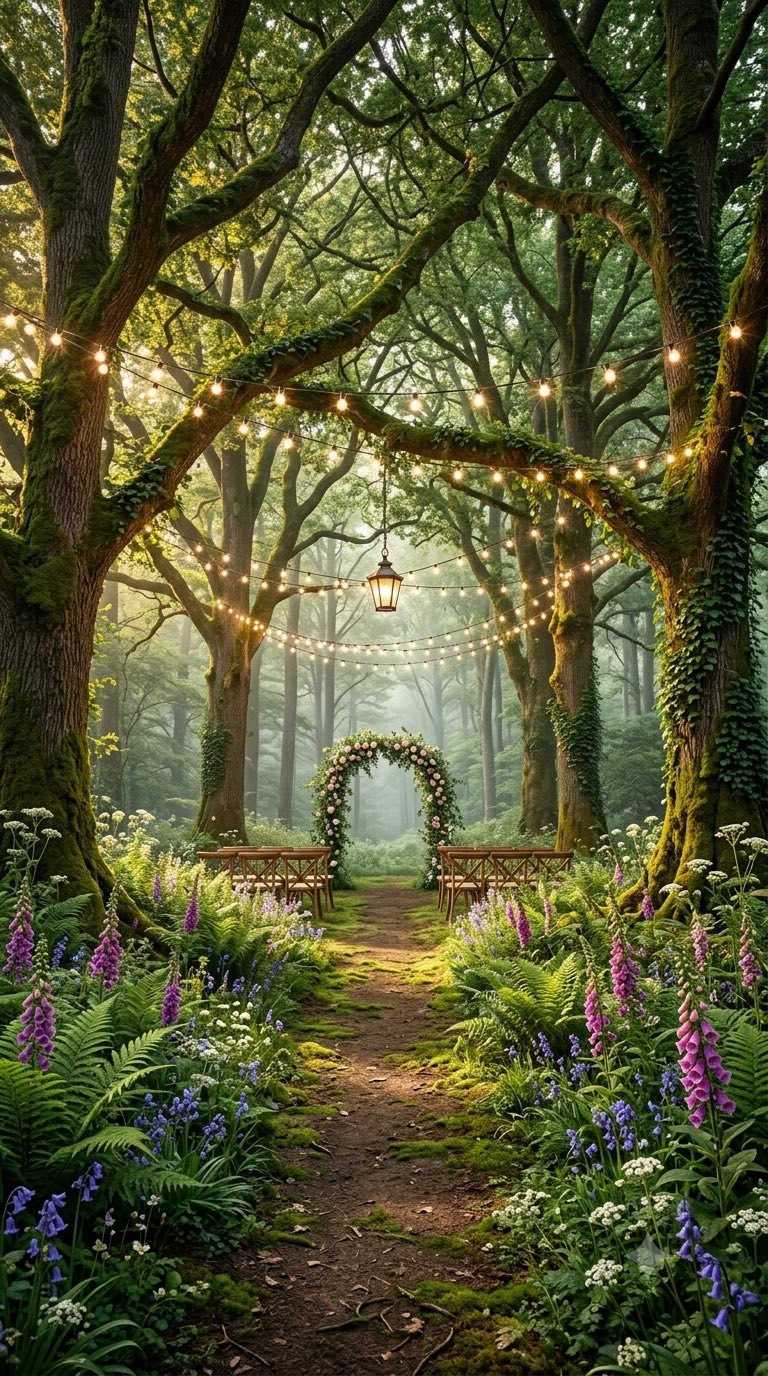
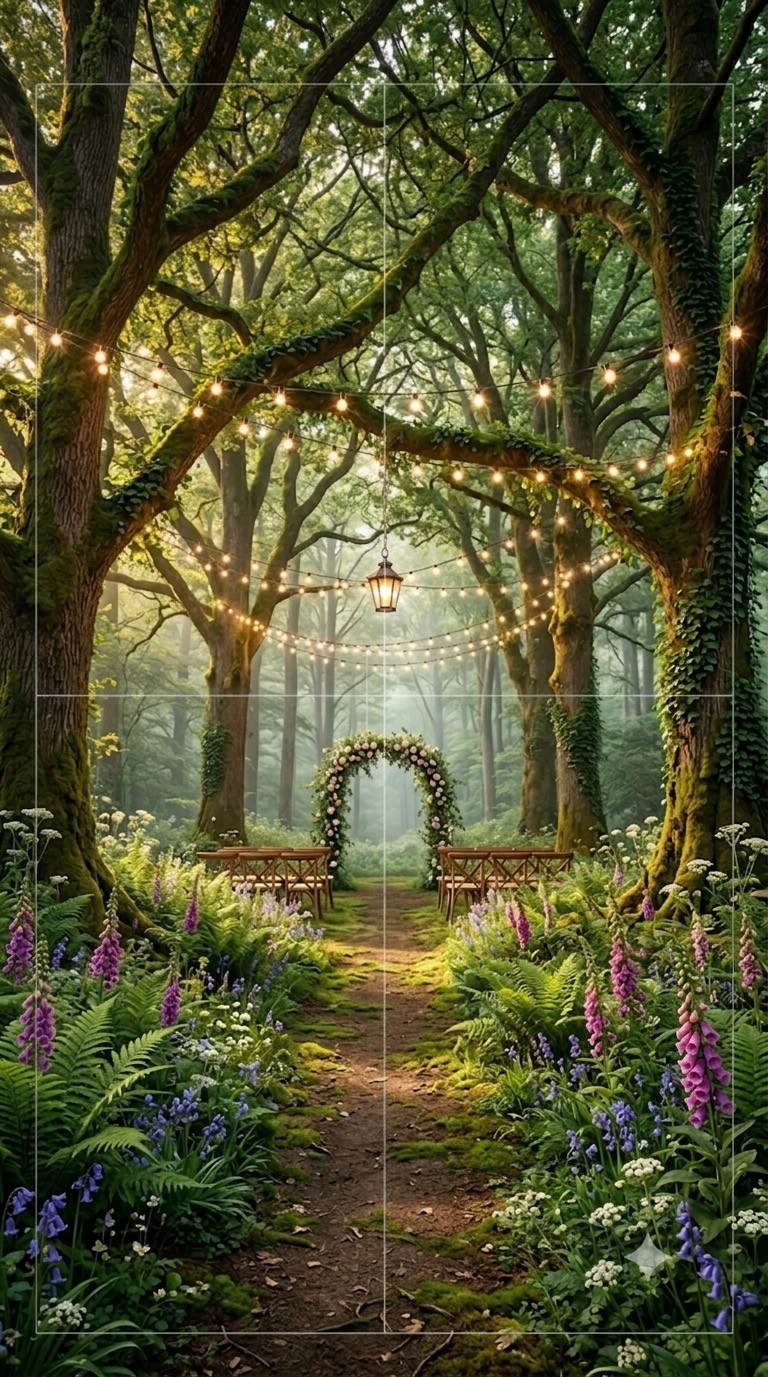
Mobile: new taller forest background image (per-section, crisp), cache-busted

diff --git a/index.html b/index.html
@@ -35,8 +35,8 @@
     href="https://fonts.googleapis.com/css2?family=Cormorant+Garamond:ital,wght@0,400;0,500;0,600;0,700;1,400&family=Great+Vibes&family=Josefin+Sans:wght@300;400;600&display=swap"
     rel="stylesheet"
   />
-  <link rel="stylesheet" href="styles.css?v=32" />
-  <link rel="stylesheet" href="mobile.css?v=32" media="(max-width: 640px)" />
+  <link rel="stylesheet" href="styles.css?v=33" />
+  <link rel="stylesheet" href="mobile.css?v=33" media="(max-width: 640px)" />
 </head>
 <body class="is-locked">
   <!-- Moving forest background (Ken Burns drift) -->
@@ -257,6 +257,6 @@
     <p>Sivakasi · 17.09.2026</p>
   </footer>
 
-  <script src="script.js?v=32"></script>
+  <script src="script.js?v=33"></script>
 </body>
 </html>

diff --git a/mobile.css b/mobile.css
@@ -19,8 +19,8 @@
 .hero,
 .section {
   background:
-    linear-gradient(rgba(4, 20, 14, 0.48), rgba(4, 20, 14, 0.62)),
-    url("assets/forest-bg-mobile.jpg") center center / cover no-repeat;
+    linear-gradient(rgba(4, 20, 14, 0.42), rgba(4, 20, 14, 0.56)),
+    url("assets/forest-bg-mobile.jpg?v=33") center center / cover no-repeat;
 }
 
 /* fireflies + hearts as a full-page ambient layer that scrolls with content */